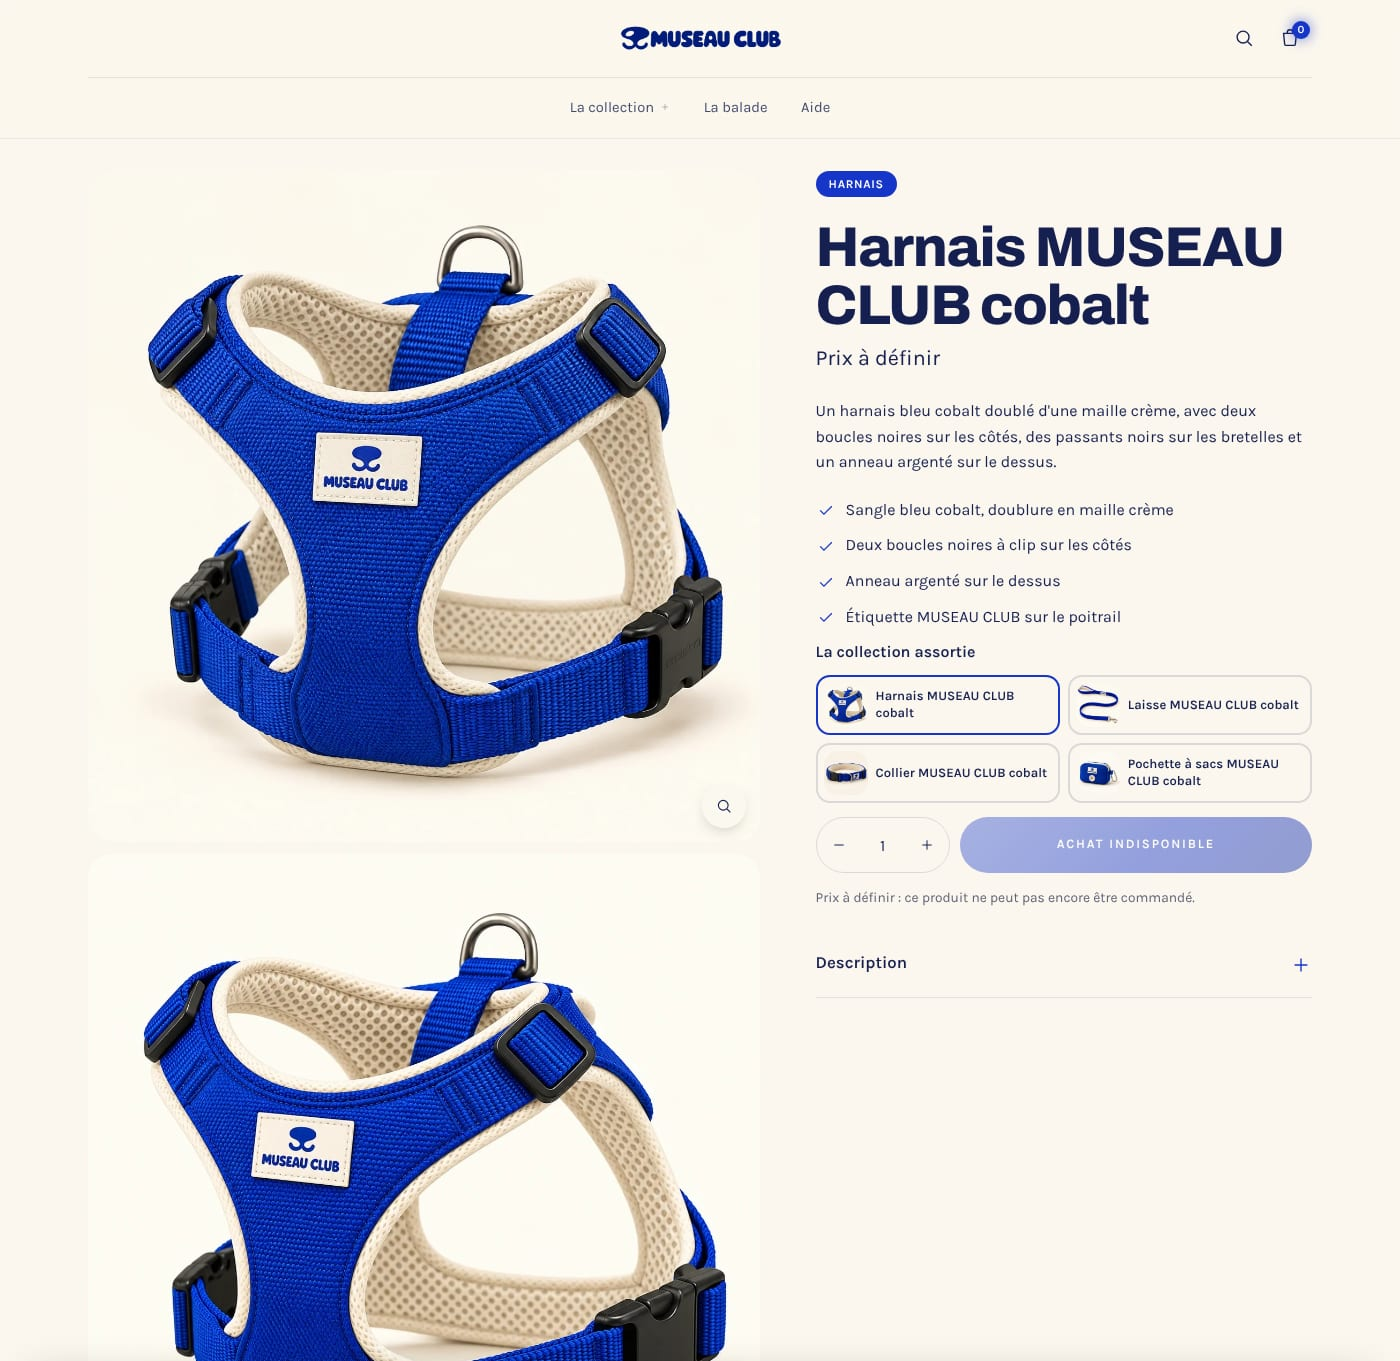
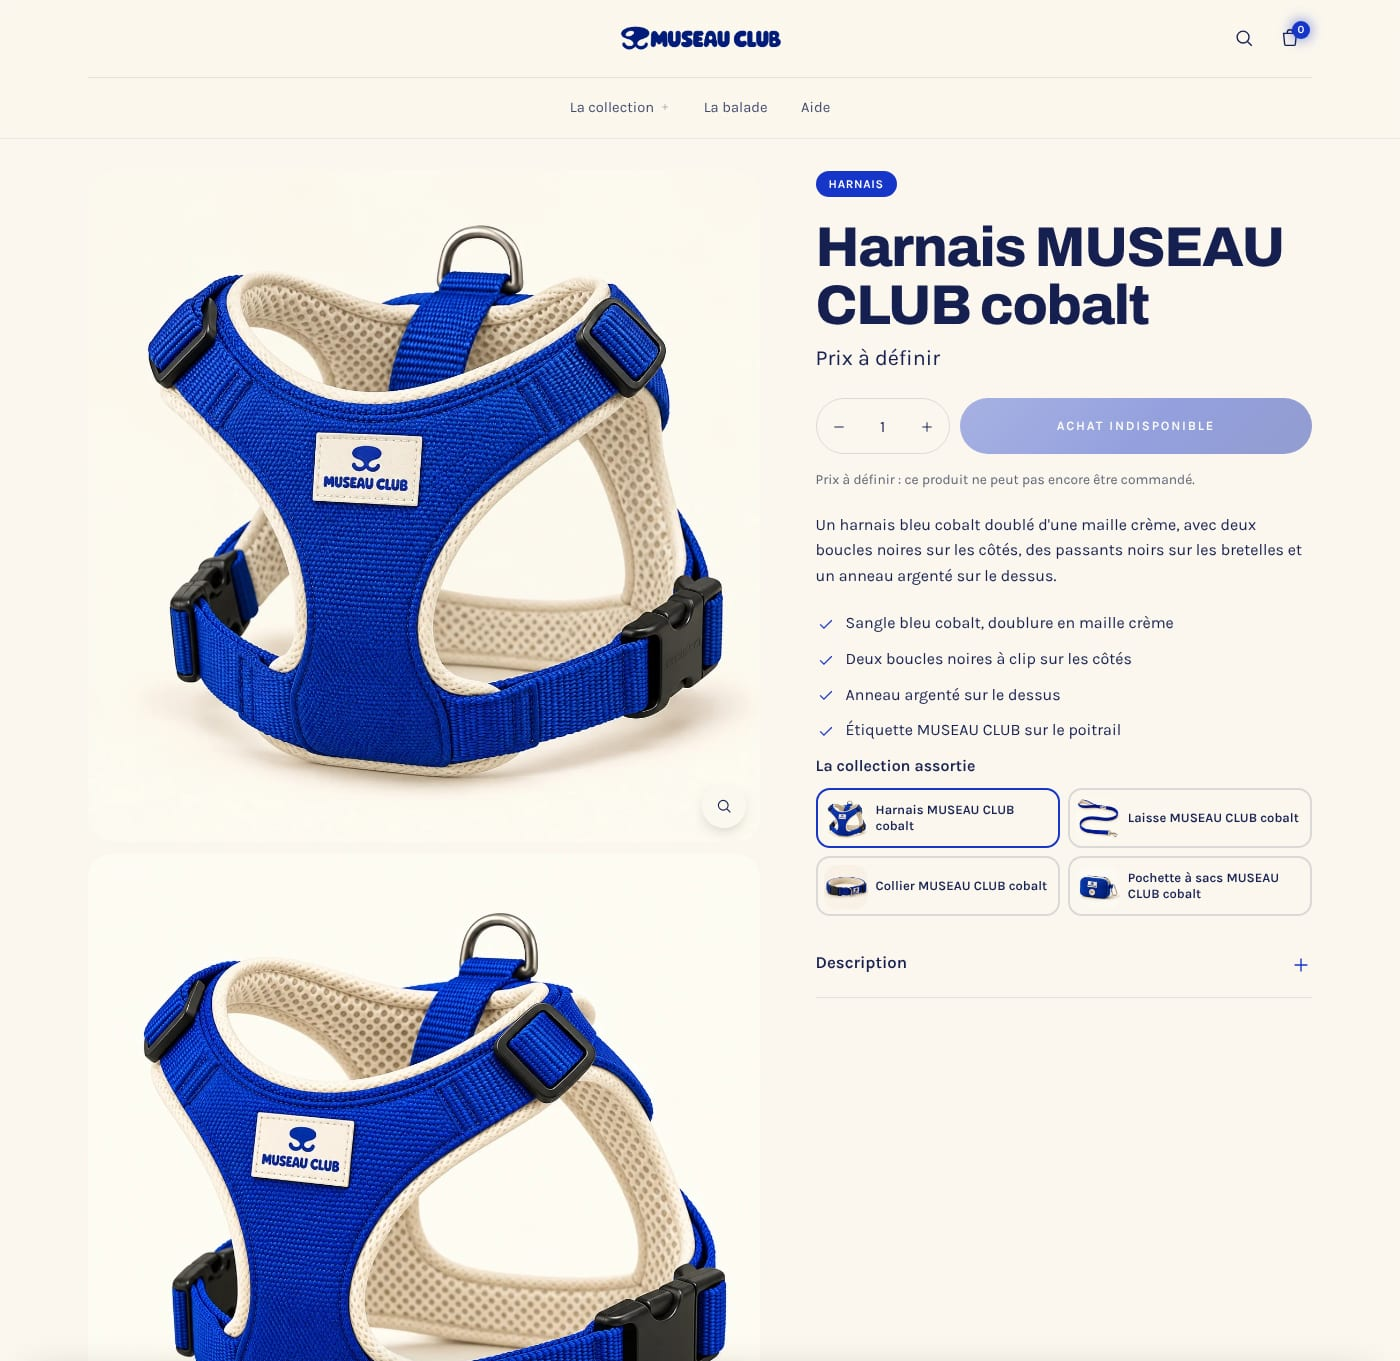
MUSEAU CLUB : photos des produits dans le menu en cartes, bouton d'achat juste sous le prix (premier écran du téléphone), aperçus régénérés (issue #158)
Claude-Session: https://claude.ai/code/session_01EKtK8Za16S8DnNDefXRRF7

Changed region(s): [[0.5836, 0.2777, 0.9521, 0.6789]]

diff --git a/tests/museau-souple-fixtures.ts b/tests/museau-souple-fixtures.ts
@@ -179,10 +179,11 @@ function curateMuseau(k: Kit) {
       ["eyebrow", block("eyebrow", { text: f.eyebrow })],
       ["title", block("title", {})],
       ["price", block("price", {})],
+      // L'action juste sous le prix : sur téléphone, produit, titre et bouton tiennent dans le premier écran.
+      ["buy", block("buy_buttons", { picker: "buttons", show_quantity: true, show_dynamic_checkout: false, price_in_button: false })],
       ["text", block("text", { text: p(f.text) })],
       ["highlights", block("highlights", { items: f.highlights, icon: "check", columns: 1 })],
       ["siblings", block("siblings", { collection: "all", heading: "La collection assortie" })],
-      ["buy", block("buy_buttons", { picker: "buttons", show_quantity: true, show_dynamic_checkout: false, price_in_button: false })],
       ["details", block("collapsible", { heading: "Description", content: f.description, open: false })],
       ["sizes", { ...block("collapsible", { heading: "Tailles et mesures", content: p(TODO(it.key === "pochette" ? "dimensions de la pochette, format des rouleaux de sacs" : "tailles proposées et mesures à prendre")), open: false }), disabled: true }],
       ["materials", { ...block("collapsible", { heading: "Matières et entretien", content: p(TODO("composition et conseils d'entretien")), open: false }), disabled: true }],
@@ -251,7 +252,10 @@ function curateMuseau(k: Kit) {
   spec.store.menus["footer-aide"] = { title: "Aide", links: [{ title: "La balade", url: "/pages/la-balade" }, { title: "Questions et contact", url: "/pages/aide" }, { title: "Recherche", url: "/search" }] };
   const header = Object.values(spec.groups.header.sections).find((s) => s.type === "header")!;
   header.settings = { ...header.settings, menu: "main-menu", layout: "two-rows", shape: "bar", icons: "plain", mega_menu: "cards", mobile_menu: "cards", mobile_submenu: "open", sticky: true, transparent_on_home: false, show_search: true, show_cart: true, cta_label: "", phone: "", color_scheme: "scheme-1" };
-  header.blocks = {}; header.block_order = [];
+  // Menu en cartes : chaque pièce avec sa photo principale (bloc « image du lien » de l'en-tête, relié par le titre).
+  const extraSchema = sectionSchema(spec, "header")!.blocks.find((b) => b.type === "link_extra")?.settings;
+  header.blocks = Object.fromEntries(items.map((it) => [`img_${it.key}`, { type: "link_extra", settings: withDefaults(extraSchema, { link_title: it.title.replace(" MUSEAU CLUB cobalt", ""), icon: "none", image: "", image_asset: k.name(it.views[0]) }) }]));
+  header.block_order = items.map((it) => `img_${it.key}`);
   // Une seule mention de démonstration : celle de l'aperçu (studio et aperçu statique), pas de bandeau d'annonce en plus.
   spec.groups.header.sections = { header };
   spec.groups.header.order = ["header"];
